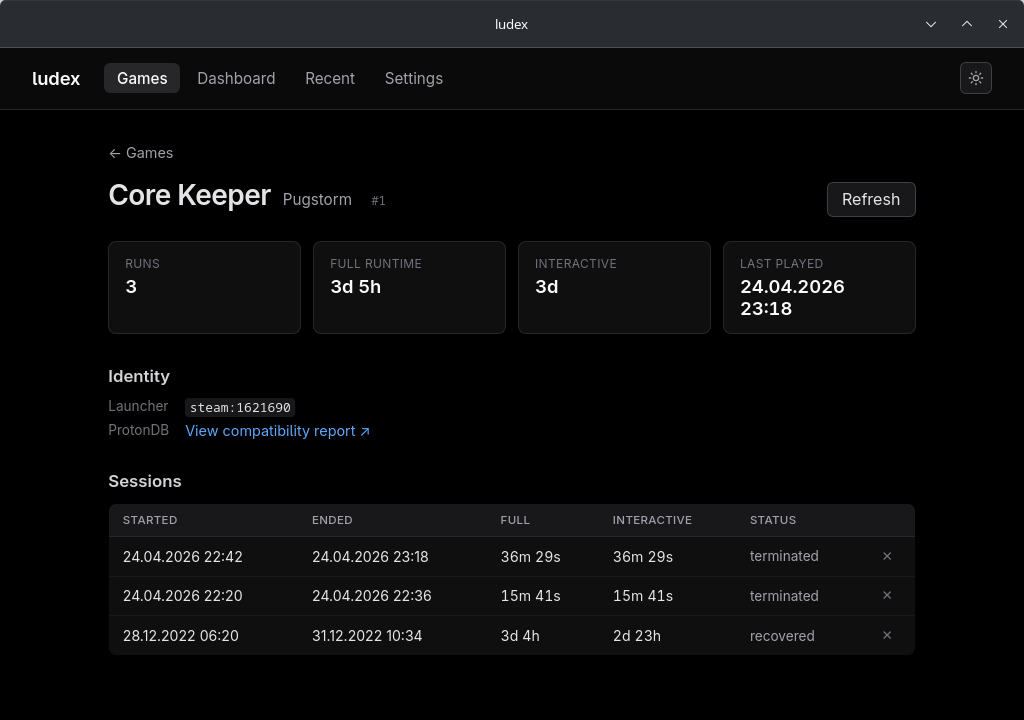
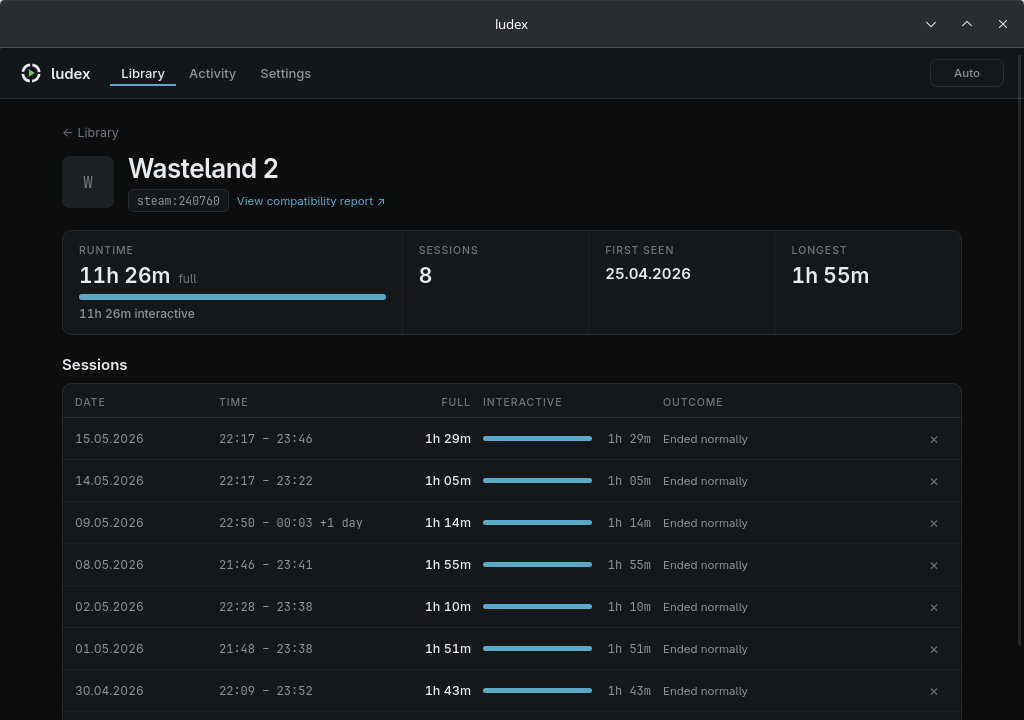
docs: reshoot the README against the redesigned interface
The screenshots were three months old and captioned for an interface
that no longer exists: Games, Recent sessions and Dashboard were merged
into Library and Activity during the redesign, so a reader arriving at
the repository saw a layout they would not find in the application.

Five shots for the three views plus the Activity log and chart panes
and per-game detail, all taken in one scheme and one accent so the set
reads as one interface rather than a collection. Captions describe what
each view actually does now.

The status paragraph named the retired views too. It can describe the
current three honestly now that the images agree with it.

diff --git a/README.md b/README.md
@@ -7,7 +7,7 @@
 
 <p align="center">A launcher-agnostic playtime tracker for Linux.</p>
 
-**Status: 0.4.0.** Daemon, CLI, and Tauri GUI all build and run end-to-end. Steam-launched sessions are detected and recorded; the Wayland foreground-window fallback catches games launched outside any recognised launcher on KDE Plasma 6, including Lutris- and Heroic-managed wine/Proton prefixes (Heroic-launched games are keyed by `HEROIC_APP_NAME` so the row stays stable across wine/Proton variant switches). The GUI covers the apps list, recent sessions, per-application detail (with a ProtonDB link for Steam games), an ECharts dashboard, settings (detection thresholds, alt-tab grace, cutscene grace, backup configuration), and a system tray with close-to-tray. Adjacent same-application sessions split by a short alt-tab are merged at display time. Arch packages are attached to each tagged [GitHub Release](https://github.com/embernode/ludex/releases); build from source on other distributions.
+**Status: 0.4.0.** Daemon, CLI, and Tauri GUI all build and run end-to-end. Steam-launched sessions are detected and recorded; the Wayland foreground-window fallback catches games launched outside any recognised launcher on KDE Plasma 6, including Lutris- and Heroic-managed wine/Proton prefixes (Heroic-launched games are keyed by `HEROIC_APP_NAME` so the row stays stable across wine/Proton variant switches). The GUI is three views — Library, Activity (a per-day session log and an ECharts pane of clock, daily-total and year-heatmap charts) and Settings (appearance, detection thresholds, grace windows, backups) — plus per-game detail with a ProtonDB link for Steam titles, and a system tray with close-to-tray. Adjacent same-application sessions split by a short alt-tab are merged at display time. Arch packages are attached to each tagged [GitHub Release](https://github.com/embernode/ludex/releases); build from source on other distributions.
 
 ## What it does
 
@@ -26,10 +26,12 @@ The primary target is KDE Plasma 6 on Wayland. X11 support is on the roadmap (th
 
 | | |
 |---|---|
-| ![Games list](screenshots/main.png) | ![Recent sessions](screenshots/recent.png) |
-| **Games** — every tracked application, sortable by last played / name / total runtime. | **Recent sessions** — chronological feed of the latest plays. |
-| ![Dashboard](screenshots/dashboard.png) | ![Game detail](screenshots/game_details.png) |
-| **Dashboard** — daily playtime line, calendar heatmap, sessions-this-week bar (ECharts). | **Game detail** — per-game stats, ProtonDB link for Steam titles, full session history with merged-fragment annotations and per-row delete. |
+| ![Library](screenshots/library.png) | ![Activity — log](screenshots/activity_log.png) |
+| **Library** — every tracked game, filterable by name or publisher and sortable by last played / name / total runtime. The interactive bar sits beside its own figure, and the source column names the launcher each row was detected through. | **Activity — log** — sessions grouped by day, newest first, each day carrying its own total. A row shows the clock range it ran, how much of the day it accounted for, and how it ended. |
+| ![Activity — charts](screenshots/activity_charts.png) | ![Game detail](screenshots/game_details.png) |
+| **Activity — charts** — a week of play placed against the clock, daily totals over the last 30 days with the busiest day annotated, and a year-long calendar heatmap (ECharts). | **Game detail** — totals, session count, first seen and longest session, a ProtonDB link for Steam titles, and the full session history with merged-fragment annotations and per-row delete. |
+| ![Settings](screenshots/settings.png) | |
+| **Settings** — colour scheme and accent, detection thresholds, grace windows, backups, and a link through to every executable the detection gate has accepted. Changes apply immediately. | |
 
 ## Design principles
 
